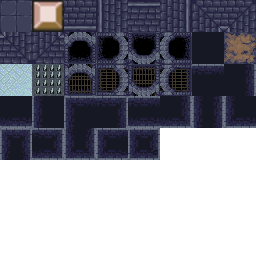
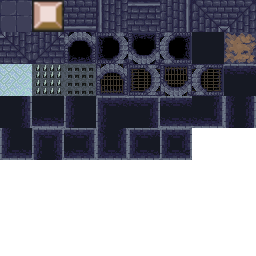
Added timed spikes

Changed region(s): [[0.0, 0.25, 1.0, 0.625]]

diff --git a/src/level.c b/src/level.c
@@ -183,8 +183,8 @@ Level level_generate(unsigned int seed, int rank)
     //     Vector2i t = {.x=i,.y=i};
     //     Creature* c = creature_add(sroom, CREATURE_TYPE_PEEPER, &t, NULL);
     // }
-    // Vector2i t = {.x=5,.y=5};
-    // creature_add(sroom, CREATURE_TYPE_SPAWN_EGG, &t, NULL);
+    Vector2i t = {5,5};
+    creature_add(sroom, CREATURE_TYPE_GRAVITY_CRYSTAL, &t, NULL);
 
 
     // // TEMP
@@ -1581,22 +1581,22 @@ static uint8_t get_pit_tile_sprite(RoomFileData* rdata, int x, int y)
     uint8_t sprite = SPRITE_TILE_PIT;
 
     if( pit_up &&  pit_right &&  pit_down &&  pit_left) return sprite+0;
-    if(!pit_up &&  pit_right &&  pit_down &&  pit_left) return sprite+8;
-    if( pit_up && !pit_right &&  pit_down &&  pit_left) return sprite+9;
-    if( pit_up &&  pit_right && !pit_down &&  pit_left) return sprite+10;
-    if( pit_up &&  pit_right &&  pit_down && !pit_left) return sprite+11;
-    if(!pit_up &&  pit_right &&  pit_down && !pit_left) return sprite+12;
-    if(!pit_up && !pit_right &&  pit_down &&  pit_left) return sprite+13;
-    if(!pit_up &&  pit_right && !pit_down &&  pit_left) return sprite+14;
-    if( pit_up && !pit_right && !pit_down &&  pit_left) return sprite+15;
-    if( pit_up && !pit_right &&  pit_down && !pit_left) return sprite+16;
-    if( pit_up &&  pit_right && !pit_down && !pit_left) return sprite+17;
-    if(!pit_up && !pit_right &&  pit_down && !pit_left) return sprite+18;
-    if(!pit_up && !pit_right && !pit_down &&  pit_left) return sprite+19;
-    if( pit_up && !pit_right && !pit_down && !pit_left) return sprite+20;
-    if(!pit_up &&  pit_right && !pit_down && !pit_left) return sprite+21;
+    if(!pit_up &&  pit_right &&  pit_down &&  pit_left) return sprite+9;
+    if( pit_up && !pit_right &&  pit_down &&  pit_left) return sprite+10;
+    if( pit_up &&  pit_right && !pit_down &&  pit_left) return sprite+11;
+    if( pit_up &&  pit_right &&  pit_down && !pit_left) return sprite+12;
+    if(!pit_up &&  pit_right &&  pit_down && !pit_left) return sprite+13;
+    if(!pit_up && !pit_right &&  pit_down &&  pit_left) return sprite+14;
+    if(!pit_up &&  pit_right && !pit_down &&  pit_left) return sprite+15;
+    if( pit_up && !pit_right && !pit_down &&  pit_left) return sprite+16;
+    if( pit_up && !pit_right &&  pit_down && !pit_left) return sprite+17;
+    if( pit_up &&  pit_right && !pit_down && !pit_left) return sprite+18;
+    if(!pit_up && !pit_right &&  pit_down && !pit_left) return sprite+19;
+    if(!pit_up && !pit_right && !pit_down &&  pit_left) return sprite+20;
+    if( pit_up && !pit_right && !pit_down && !pit_left) return sprite+21;
+    if(!pit_up &&  pit_right && !pit_down && !pit_left) return sprite+22;
 
-    return sprite+22;
+    return sprite+23;
 }
 
 uint8_t level_get_tile_sprite(TileType tt)
@@ -1609,8 +1609,9 @@ uint8_t level_get_tile_sprite(TileType tt)
         case TILE_BOULDER:       sprite = SPRITE_TILE_BLOCK;  break;
         case TILE_MUD:           sprite = SPRITE_TILE_MUD;    break;
         case TILE_ICE:           sprite = SPRITE_TILE_ICE;    break;
-        case TILE_SPIKES:        sprite = SPRITE_TILE_SPIKES; break;
-        case TILE_TIMED_SPIKES:  sprite = SPRITE_TILE_SPIKES; break;
+        case TILE_SPIKES:        sprite = SPRITE_TILE_SPIKES; break; 
+        case TILE_TIMED_SPIKES1:  sprite = (((int)g_timer) % 2 == 0) ? SPRITE_TILE_SPIKES : SPRITE_TILE_SPIKES_DOWN; break;
+        case TILE_TIMED_SPIKES2:  sprite = (((int)g_timer) % 2 == 0) ? SPRITE_TILE_SPIKES_DOWN : SPRITE_TILE_SPIKES; break;
         default: break;
     }
     return (uint8_t)sprite;
@@ -2167,7 +2168,8 @@ const char* get_tile_name(TileType tt)
         case TILE_MUD: return "Mud";
         case TILE_ICE: return "Ice";
         case TILE_SPIKES: return "Spikes";
-        case TILE_TIMED_SPIKES: return "Timed Spikes";
+        case TILE_TIMED_SPIKES1: return "Timed Spikes 1";
+        case TILE_TIMED_SPIKES2: return "Timed Spikes 2";
     }
     return "?";
 }

diff --git a/src/player.c b/src/player.c
@@ -60,14 +60,14 @@ void player_set_defaults(Player* p)
     p->phys.speed = 700.0;
     p->phys.speed_factor = 1.0;
     p->phys.max_velocity = 120.0;
-    p->phys.base_friction = 15.0;
+    p->phys.base_friction = 8.0;
     p->phys.vel.x = 0.0;
     p->phys.vel.y = 0.0;
     p->phys.height = vr->h * 0.80;
     p->phys.width  = vr->w * 0.60;
     p->phys.length = vr->w * 0.60;
     p->phys.mass = 1.0;
-    p->phys.elasticity = 0.0;
+    p->phys.elasticity = 0.1;
     p->phys.vr = *vr;
 
     phys_calc_collision_rect(&p->phys);
@@ -1430,6 +1430,11 @@ void player_update(Player* p, float dt)
                 case TILE_SPIKES:
                     player_hurt(p,1);
                     break;
+                case TILE_TIMED_SPIKES1:
+                case TILE_TIMED_SPIKES2:
+                    if(level_get_tile_sprite(tt) == SPRITE_TILE_SPIKES)
+                        player_hurt(p,1);
+                    break;
             }
         }
 
@@ -1640,25 +1645,23 @@ void player_update(Player* p, float dt)
     if(!p->phys.falling)
     {
         // handle friction
-        Vector2f f = {-p->phys.vel.x, -p->phys.vel.y};
-        normalize(&f);
+        int vel_x_dir = (p->phys.vel.x >= 0) ? 1 : -1;
+        int vel_y_dir = (p->phys.vel.y >= 0) ? 1 : -1;
 
         float vel_magn_x = ABS(p->phys.vel.x);
         float vel_magn_y = ABS(p->phys.vel.y);
 
-        float applied_friction_x = MIN(vel_magn_x,p->phys.base_friction*friction_factor);
-        float applied_friction_y = MIN(vel_magn_y,p->phys.base_friction*friction_factor);
+        float applied_friction_x = vel_x_dir*MIN(vel_magn_x,p->phys.base_friction*friction_factor);
+        float applied_friction_y = vel_y_dir*MIN(vel_magn_y,p->phys.base_friction*friction_factor);
 
         if(!left && !right)
         {
-            f.x *= applied_friction_x;
-            p->phys.vel.x += f.x;
+            p->phys.vel.x -= applied_friction_x;
         }
 
         if(!up && !down)
         {
-            f.y *= applied_friction_y;
-            p->phys.vel.y += f.y;
+            p->phys.vel.y -= applied_friction_y;
         }
     }
 

diff --git a/src/creature.c b/src/creature.c
@@ -387,6 +387,7 @@ void creature_init_props(Creature* c)
             c->phys.hp_max = 127;
             c->painful_touch = false;
             c->phys.elasticity = 0.0;
+            c->phys.crawling = true;
             c->passive = true;
             c->xp = 0;
         } break;
@@ -442,6 +443,8 @@ void creature_init_props(Creature* c)
             c->phys.radius = 0.5*MAX(c->phys.width,c->phys.height);
             c->phys.crawling = true;
             c->xp = 10;
+            c->ai_state = 0;
+            c->ai_value = rand() % 8;
         } break;
     }
 
@@ -684,7 +687,7 @@ void creature_update(Creature* c, float dt)
 
     c->phys.curr_tile = level_get_room_coords_by_pos(c->phys.collision_rect.x, c->phys.collision_rect.y);
 
-    if(level_grace_time <= 0.0 || creatures_can_move)
+    if(level_grace_time <= 0.0 && creatures_can_move)
     {
         switch(c->type)
         {
@@ -1836,7 +1839,7 @@ static void creature_update_gravity_crystal(Creature* c, float dt)
 {
     // F = (G*m1*m2)/(r^2)
 
-    const double G = 10.67;
+    const double G = 1.50;
 
     float m1 = c->phys.mass;
 
@@ -1849,8 +1852,9 @@ static void creature_update_gravity_crystal(Creature* c, float dt)
         if(p->curr_room != c->curr_room) continue;
 
         double m2 = p->phys.mass;
-        double r2 = dist_squared(c->phys.pos.x,c->phys.pos.y, p->phys.pos.x, p->phys.pos.y);
-        double f = (G*m1*m2)/(r2*5.0);
+        double r = dist(c->phys.pos.x,c->phys.pos.y, p->phys.pos.x, p->phys.pos.y);
+        double f_n = (G*m1*m2);
+        double f = (f_n)/(20.0*r);
 
         // printf("f: %f\n", f);
 

diff --git a/src/level.h b/src/level.h
@@ -42,7 +42,8 @@ typedef enum
     TILE_MUD,
     TILE_ICE,
     TILE_SPIKES,
-    TILE_TIMED_SPIKES,
+    TILE_TIMED_SPIKES1,
+    TILE_TIMED_SPIKES2,
     TILE_MAX
 } TileType;
 
@@ -82,6 +83,7 @@ typedef enum
     SPRITE_TILE_MUD,
     SPRITE_TILE_ICE,
     SPRITE_TILE_SPIKES,
+    SPRITE_TILE_SPIKES_DOWN,
     SPRITE_TILE_DOOR_UP_CLOSED,
     SPRITE_TILE_DOOR_RIGHT_CLOSED,
     SPRITE_TILE_DOOR_DOWN_CLOSED,

diff --git a/src/main.c b/src/main.c
@@ -48,6 +48,7 @@ bool show_tile_grid = false;
 bool creatures_can_move = true;
 bool players_invincible = false;
 bool all_players_dead = false;
+double g_timer = 0.0;
 
 // Settings
 uint32_t background_color = COLOR(30,30,30);
@@ -521,6 +522,7 @@ void run()
 
         while(accum >= dt)
         {
+            g_timer += dt;
             update(dt);
             accum -= dt;
         }

diff --git a/src/main.h b/src/main.h
@@ -158,6 +158,7 @@ extern bool players_invincible;
 extern bool all_players_dead;
 extern uint32_t background_color;
 extern float ascale;
+extern double g_timer;
 
 extern bool dynamic_zoom;
 extern int cam_zoom;
